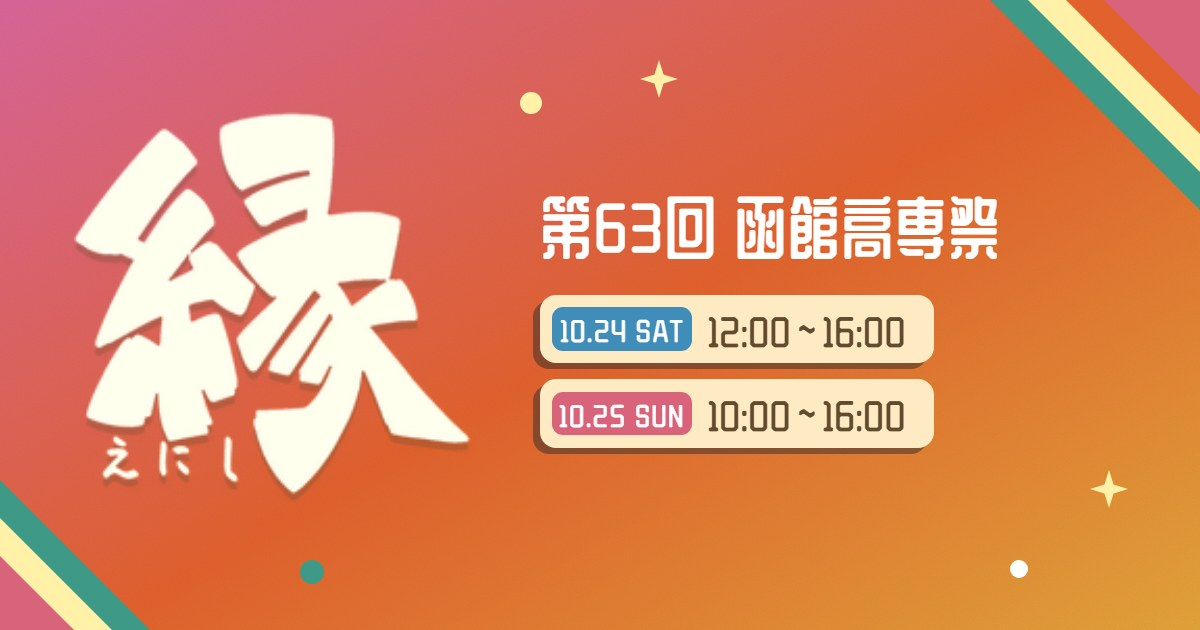
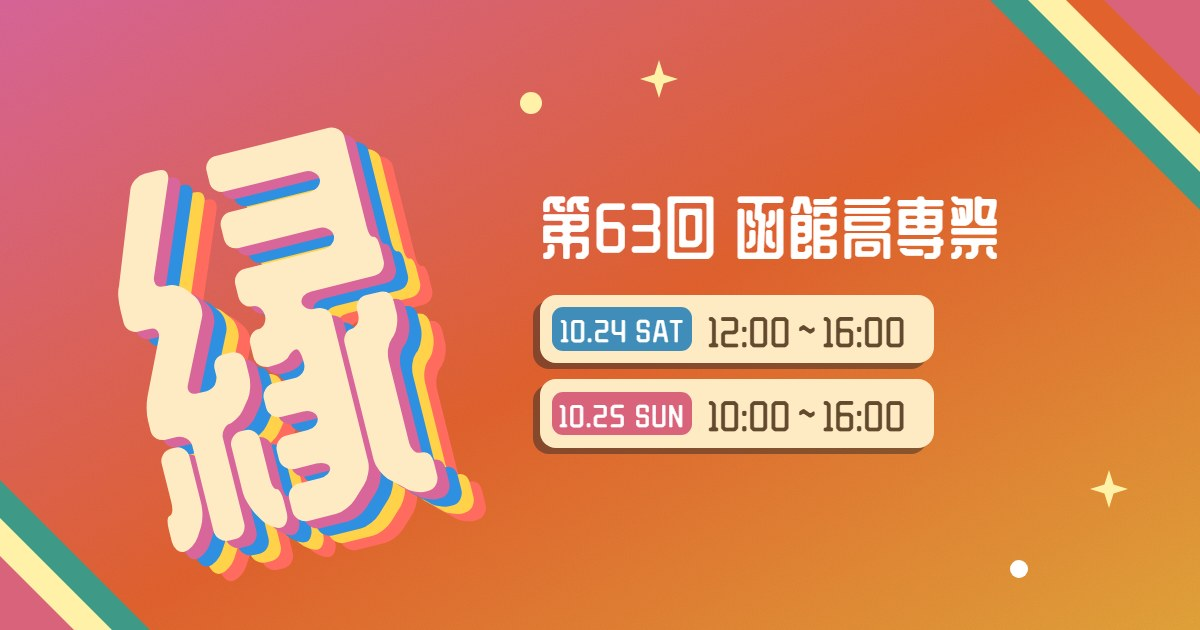
OGP画像の「縁」を、サイネージの切りかわりに出る縁のハンコ（書体の文字・かたむき・色つきの影）に

Changed region(s): [[0.0617, 0.181, 0.4317, 0.9349]]

diff --git a/design/ogp/variants.html b/design/ogp/variants.html
@@ -67,7 +67,9 @@
   /* G：絵は入れない。サイトの色の面に、サイネージと同じ白ぬきの「縁」を大きく。すみに色の三角、日付は色のついた札 */
   .g .bg { background: linear-gradient(150deg, #d9669b 0%, #e2622e 52%, #e3a43a 100%); }
   .g .grain { opacity: .5; }
-  .g .logo { left: 74px; top: 112px; width: 400px; filter: brightness(0) invert(.95) sepia(.25) drop-shadow(0 8px 0 rgba(99, 74, 46, .3)); }
+  /* 縁：サイネージの切りかわりに出る、縁のハンコと同じ。書体（WDXL）の文字を、クリームがかった白で、-14度かたむけて、色つきの影を重ねる */
+  .g .en { position: absolute; left: 44px; top: 96px; width: 420px; height: 420px; display: grid; place-items: center; font: 400 410px/1 "WDXL Lubrifont JP N", sans-serif; color: #FEEBC4; transform: rotate(-14deg);
+    text-shadow: 10px 10px 0 #d9669b, 20px 20px 0 #2f8fe0, 30px 30px 0 #ffd24a, 40px 40px 0 #ff6b5e; }
   .g .txt { position: absolute; left: 540px; top: 186px; }
   .g .t { color: #fff; font-size: 68px; line-height: 1.1; white-space: nowrap; }
   .g .chips { margin-top: 34px; display: grid; gap: 16px; }
@@ -100,8 +102,8 @@
     e: `<div class="bg"></div>${L}<div class="band"><div class="grain"></div></div><div class="txt">${T}<div class="days">${D}</div></div>`,
     g: `<div class="bg"></div><div class="grain"></div>
       <i class="tri tr1"></i><i class="tri tr2"></i><i class="tri tr3"></i><i class="tri tr4"></i><i class="tri bl1"></i><i class="tri bl2"></i><i class="tri bl3"></i>
-      <i class="dot" style="left:520px;top:92px;width:22px;height:22px;background:#FFF1A8"></i><i class="star" style="left:640px;top:60px"></i><i class="dot" style="left:1010px;top:560px;width:18px;height:18px;background:#fff"></i><i class="star" style="left:1090px;top:470px"></i><i class="dot" style="left:300px;top:560px;width:24px;height:24px;background:#3E9A86"></i>
-      <img class="logo" src="../../site/assets/img/logo-s.webp" alt=""><div class="txt">${T}<div class="chips"><div class="chip"><b>10.24 SAT</b><span>12:00～16:00</span></div><div class="chip"><b>10.25 SUN</b><span>10:00～16:00</span></div></div></div>`,
+      <i class="dot" style="left:520px;top:92px;width:22px;height:22px;background:#FFF1A8"></i><i class="star" style="left:640px;top:60px"></i><i class="dot" style="left:1010px;top:560px;width:18px;height:18px;background:#fff"></i><i class="star" style="left:1090px;top:470px"></i>
+      <div class="en">縁</div><div class="txt">${T}<div class="chips"><div class="chip"><b>10.24 SAT</b><span>12:00～16:00</span></div><div class="chip"><b>10.25 SUN</b><span>10:00～16:00</span></div></div></div>`,
     f: `<div class="bg"></div><div class="stripe s1"></div><div class="stripe s2"></div><div class="stripe s3"></div><div class="stripe s4"></div><div class="panel"><div class="grain"></div></div>
       <i class="dot" style="left:404px;top:70px;width:22px;height:22px;background:#FFF1A8"></i><i class="star" style="left:464px;top:150px"></i><i class="dot" style="left:420px;top:230px;width:14px;height:14px;background:#fff"></i>
       ${L}<h1 class="t">第63回<br>函館高専祭</h1><div class="chips"><div class="chip"><b>10.24 SAT</b><span>12:00～16:00</span></div><div class="chip"><b>10.25 SUN</b><span>10:00～16:00</span></div></div>`,

diff --git a/tools/ogp.html b/tools/ogp.html
@@ -67,7 +67,9 @@
   /* G：絵は入れない。サイトの色の面に、サイネージと同じ白ぬきの「縁」を大きく。すみに色の三角、日付は色のついた札 */
   .g .bg { background: linear-gradient(150deg, #d9669b 0%, #e2622e 52%, #e3a43a 100%); }
   .g .grain { opacity: .5; }
-  .g .logo { left: 74px; top: 112px; width: 400px; filter: brightness(0) invert(.95) sepia(.25) drop-shadow(0 8px 0 rgba(99, 74, 46, .3)); }
+  /* 縁：サイネージの切りかわりに出る、縁のハンコと同じ。書体（WDXL）の文字を、クリームがかった白で、-14度かたむけて、色つきの影を重ねる */
+  .g .en { position: absolute; left: 44px; top: 96px; width: 420px; height: 420px; display: grid; place-items: center; font: 400 410px/1 "WDXL Lubrifont JP N", sans-serif; color: #FEEBC4; transform: rotate(-14deg);
+    text-shadow: 10px 10px 0 #d9669b, 20px 20px 0 #2f8fe0, 30px 30px 0 #ffd24a, 40px 40px 0 #ff6b5e; }
   .g .txt { position: absolute; left: 540px; top: 186px; }
   .g .t { color: #fff; font-size: 68px; line-height: 1.1; white-space: nowrap; }
   .g .chips { margin-top: 34px; display: grid; gap: 16px; }
@@ -100,8 +102,8 @@
     e: `<div class="bg"></div>${L}<div class="band"><div class="grain"></div></div><div class="txt">${T}<div class="days">${D}</div></div>`,
     g: `<div class="bg"></div><div class="grain"></div>
       <i class="tri tr1"></i><i class="tri tr2"></i><i class="tri tr3"></i><i class="tri tr4"></i><i class="tri bl1"></i><i class="tri bl2"></i><i class="tri bl3"></i>
-      <i class="dot" style="left:520px;top:92px;width:22px;height:22px;background:#FFF1A8"></i><i class="star" style="left:640px;top:60px"></i><i class="dot" style="left:1010px;top:560px;width:18px;height:18px;background:#fff"></i><i class="star" style="left:1090px;top:470px"></i><i class="dot" style="left:300px;top:560px;width:24px;height:24px;background:#3E9A86"></i>
-      <img class="logo" src="../site/assets/img/logo-s.webp" alt=""><div class="txt">${T}<div class="chips"><div class="chip"><b>10.24 SAT</b><span>12:00～16:00</span></div><div class="chip"><b>10.25 SUN</b><span>10:00～16:00</span></div></div></div>`,
+      <i class="dot" style="left:520px;top:92px;width:22px;height:22px;background:#FFF1A8"></i><i class="star" style="left:640px;top:60px"></i><i class="dot" style="left:1010px;top:560px;width:18px;height:18px;background:#fff"></i><i class="star" style="left:1090px;top:470px"></i>
+      <div class="en">縁</div><div class="txt">${T}<div class="chips"><div class="chip"><b>10.24 SAT</b><span>12:00～16:00</span></div><div class="chip"><b>10.25 SUN</b><span>10:00～16:00</span></div></div></div>`,
     f: `<div class="bg"></div><div class="stripe s1"></div><div class="stripe s2"></div><div class="stripe s3"></div><div class="stripe s4"></div><div class="panel"><div class="grain"></div></div>
       <i class="dot" style="left:404px;top:70px;width:22px;height:22px;background:#FFF1A8"></i><i class="star" style="left:464px;top:150px"></i><i class="dot" style="left:420px;top:230px;width:14px;height:14px;background:#fff"></i>
       ${L}<h1 class="t">第63回<br>函館高専祭</h1><div class="chips"><div class="chip"><b>10.24 SAT</b><span>12:00～16:00</span></div><div class="chip"><b>10.25 SUN</b><span>10:00～16:00</span></div></div>`,

diff --git a/site/sw.js b/site/sw.js
@@ -8,7 +8,7 @@
 // - 混雑・お知らせ・みんなの声（Firestore）はしまわない（電波がないときは出ないだけ）
 // - staff/（本部用）はしまわない
 // 中身を大きく変えたときは VERSION を上げる（古いしまったものを消す）
-const VERSION = "kosen63-v244";
+const VERSION = "kosen63-v245";
 const CORE = [
   "./", "index.html", "map.html", "mido.html", "rally.html", "vote.html", "terms.html", "favicon.svg", "manifest.webmanifest",
   "assets/style.css", "assets/map.css",
